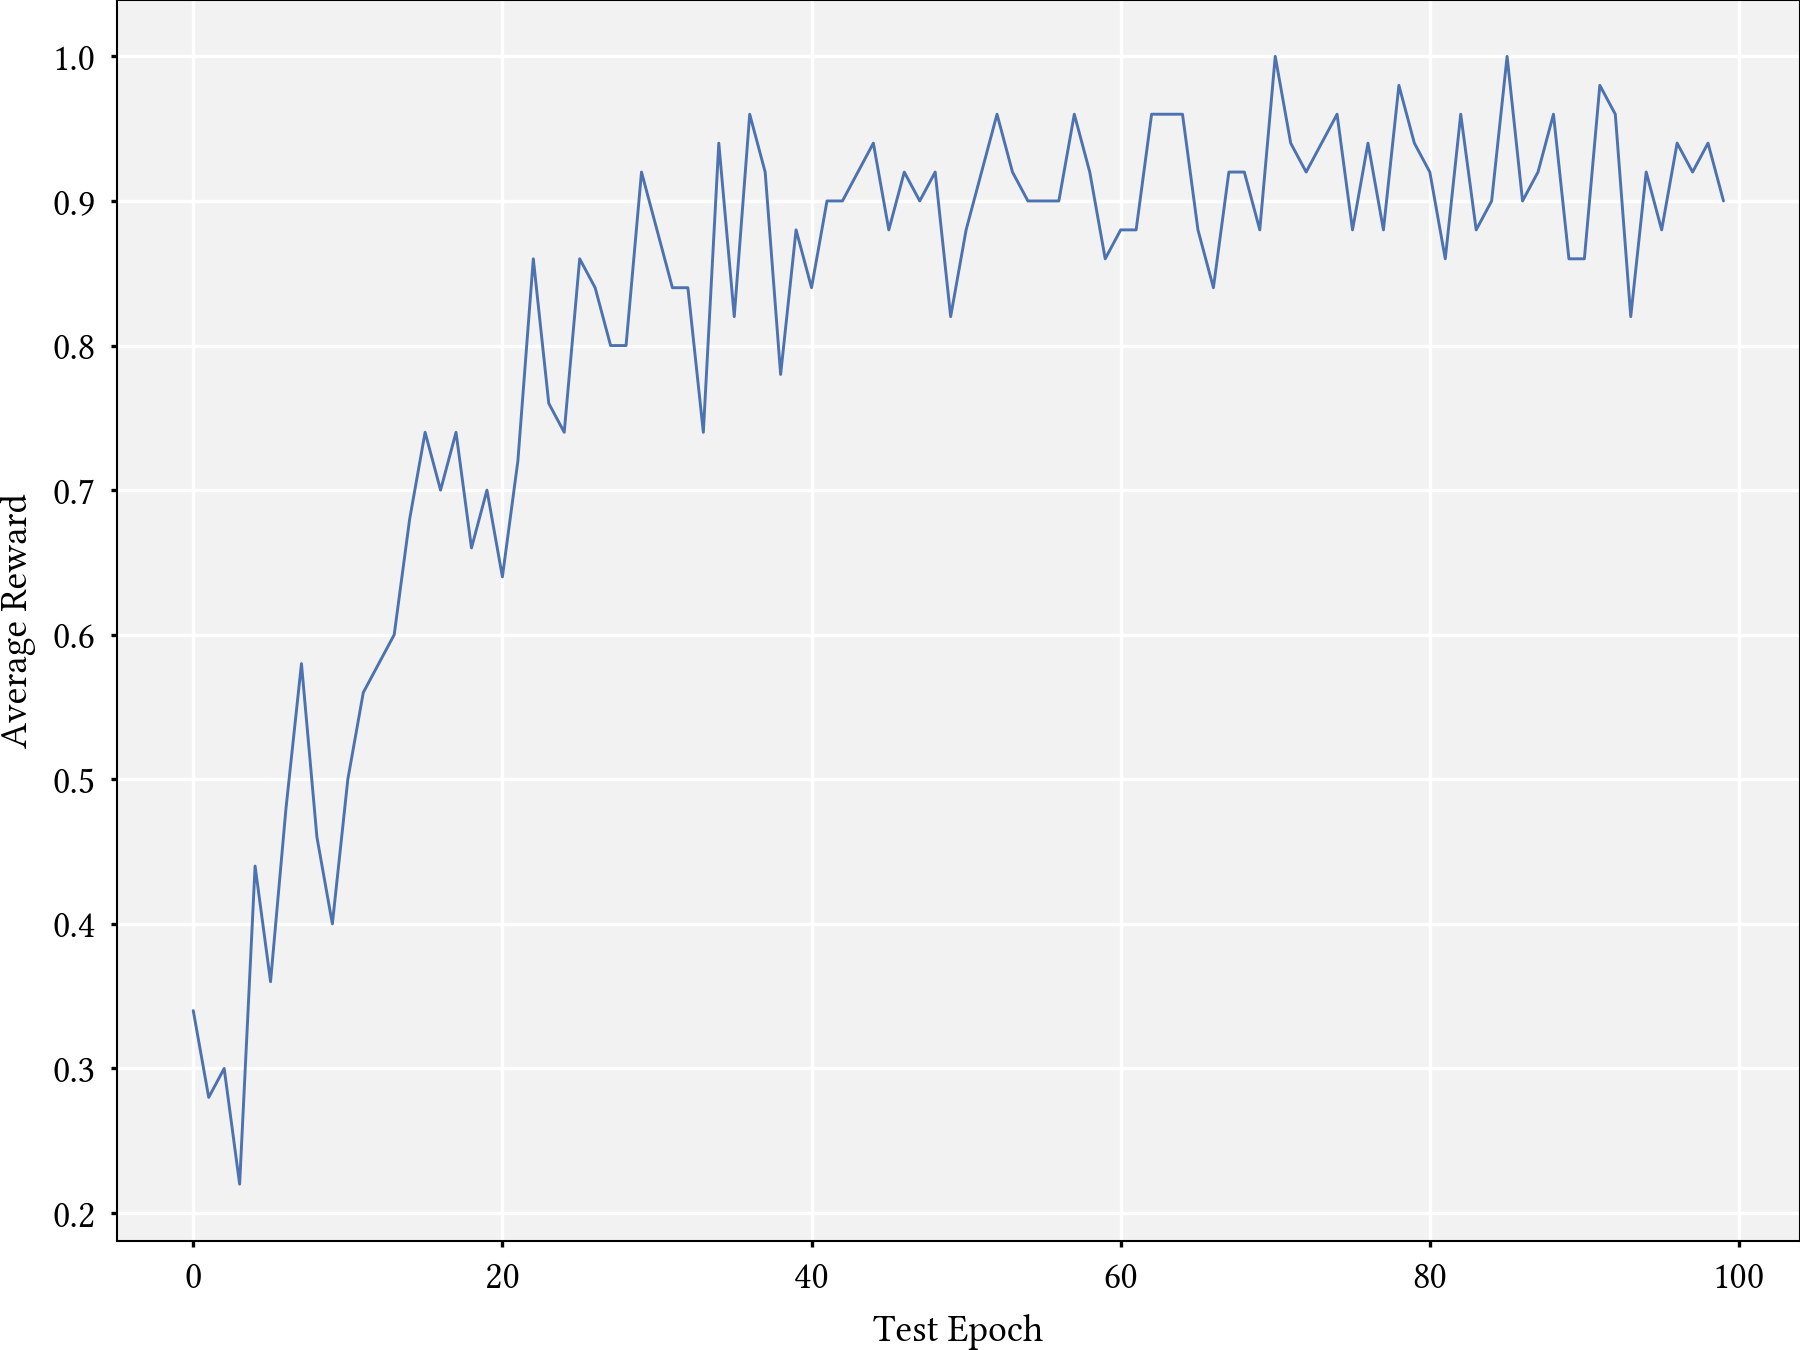
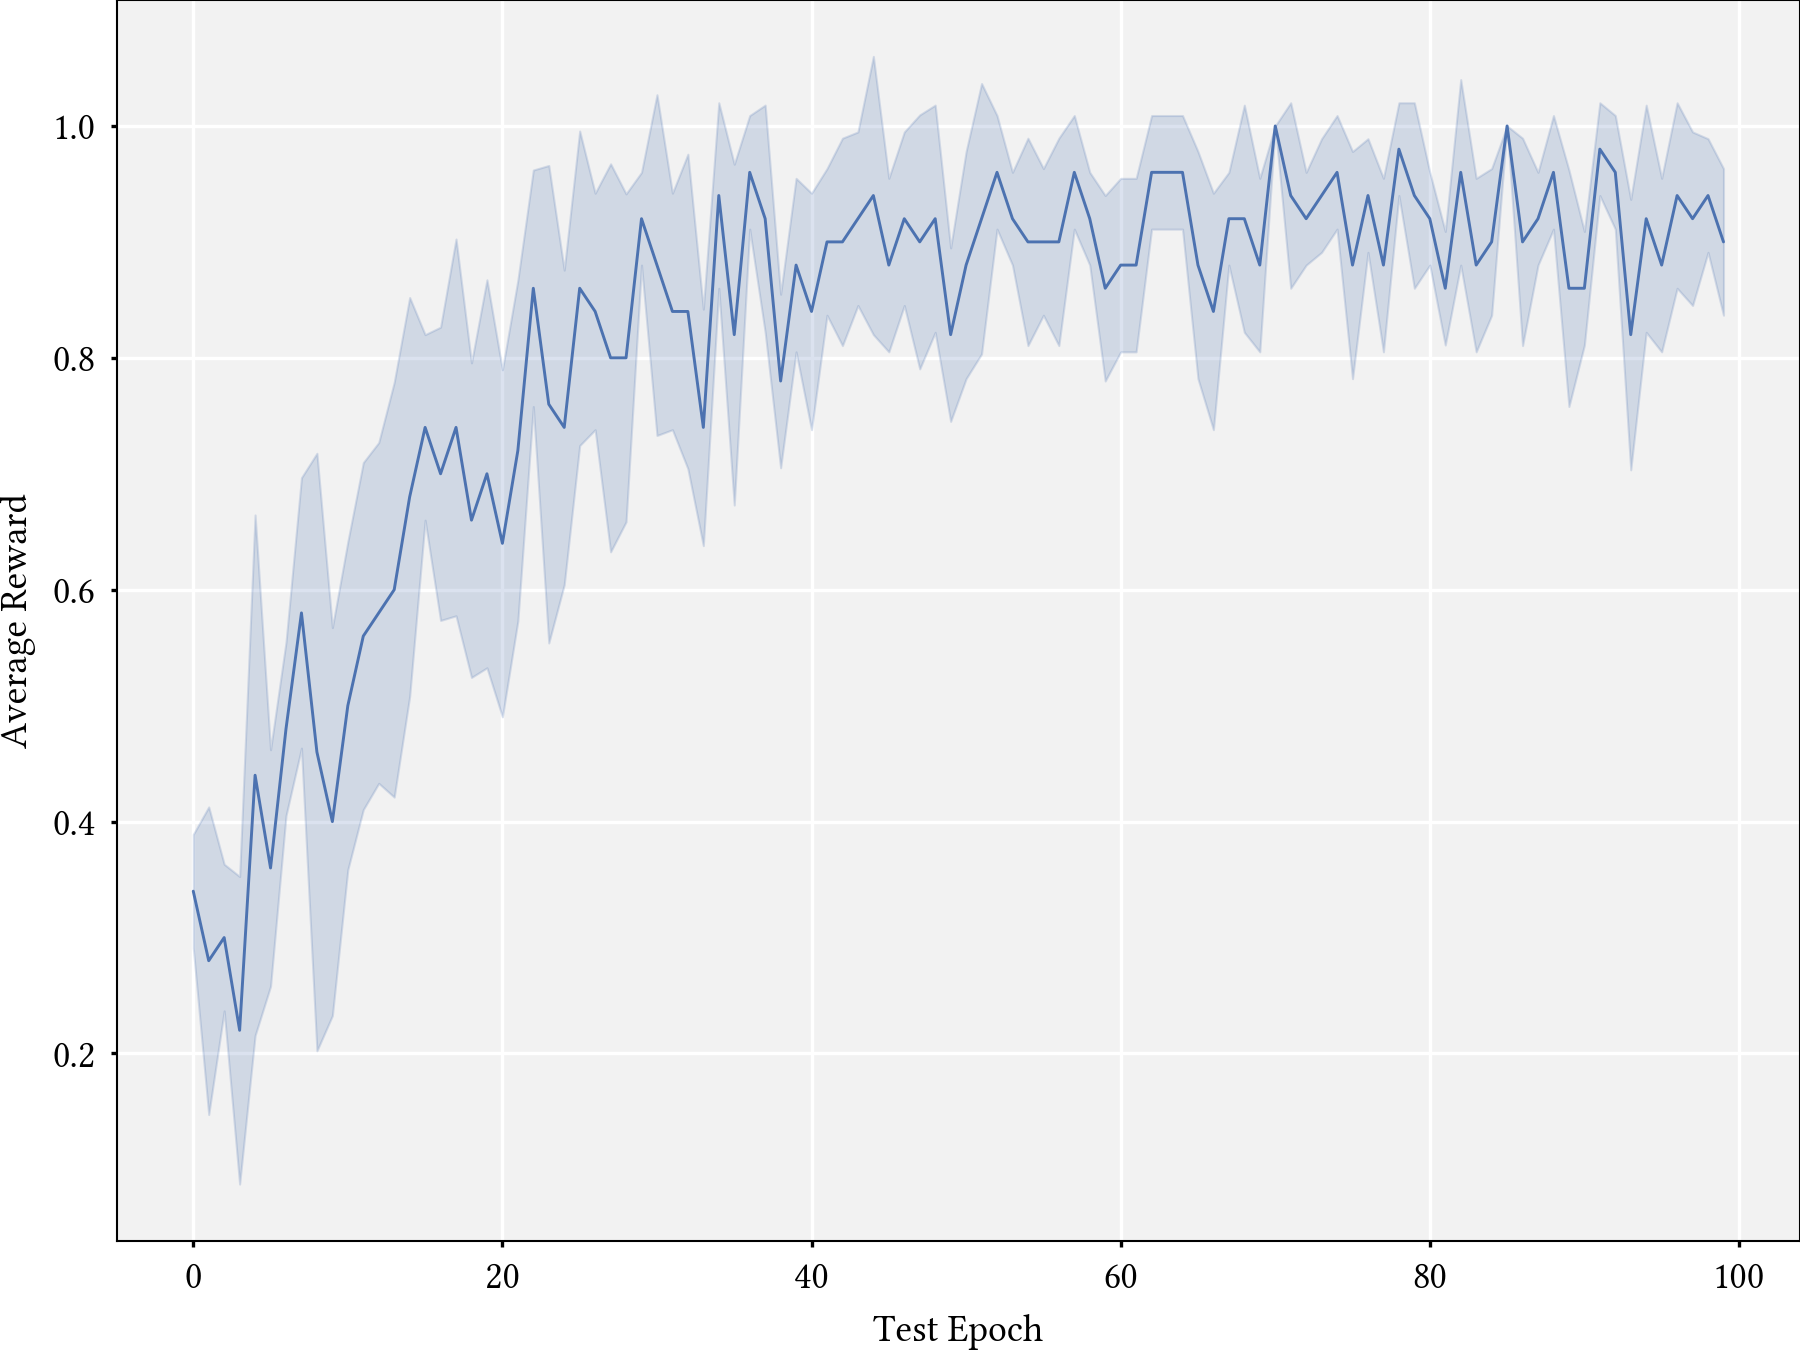
Updated script to run in loop

diff --git a/notebooks/plot_results.py b/notebooks/plot_results.py
@@ -15,14 +15,18 @@ data = [np.load(file) for file in files]
 data = np.array(data)
 
 # %%
-data = np.mean(data, axis=0)
-
+mu = np.mean(data, axis=0)
+sigma = np.std(data, axis=0)
 # %%
 from matplotlib import style
 style.use(["cleanplot", "font_libertine"])
 # %%
-epochs = np.arange(len(data))
-plt.plot(epochs, data)
+epochs = np.arange(len(mu))
+plt.plot(epochs, mu)
+# plt.plot(epochs, mu + sigma, "--", color="C0")
+# plt.plot(epochs, mu - sigma, "--", color="C0")
+plt.fill_between(epochs, mu + sigma, mu - sigma, alpha=0.2, color="C0")
+
 plt.xlabel("Test Epoch")
 plt.ylabel("Average Reward")
 plt.savefig(results_dir/"results.png", dpi=300)
